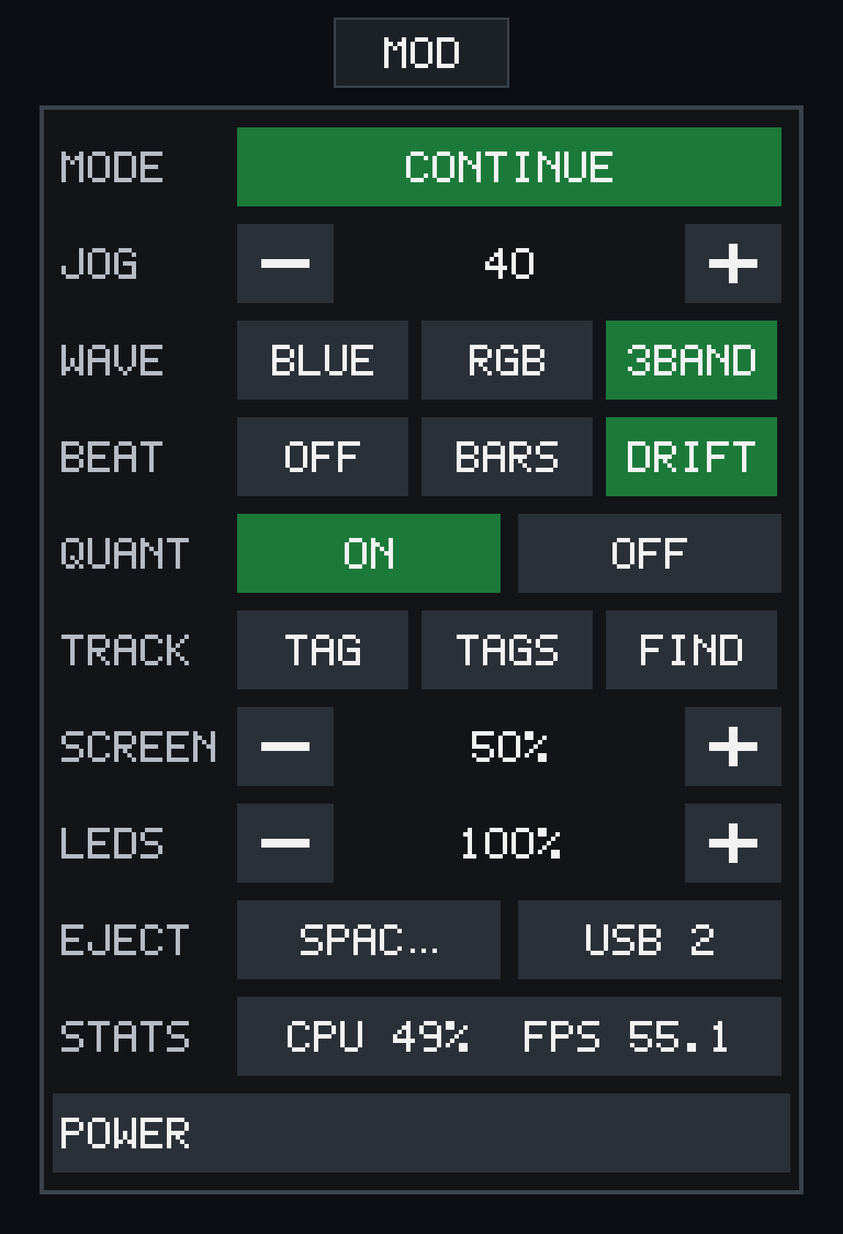
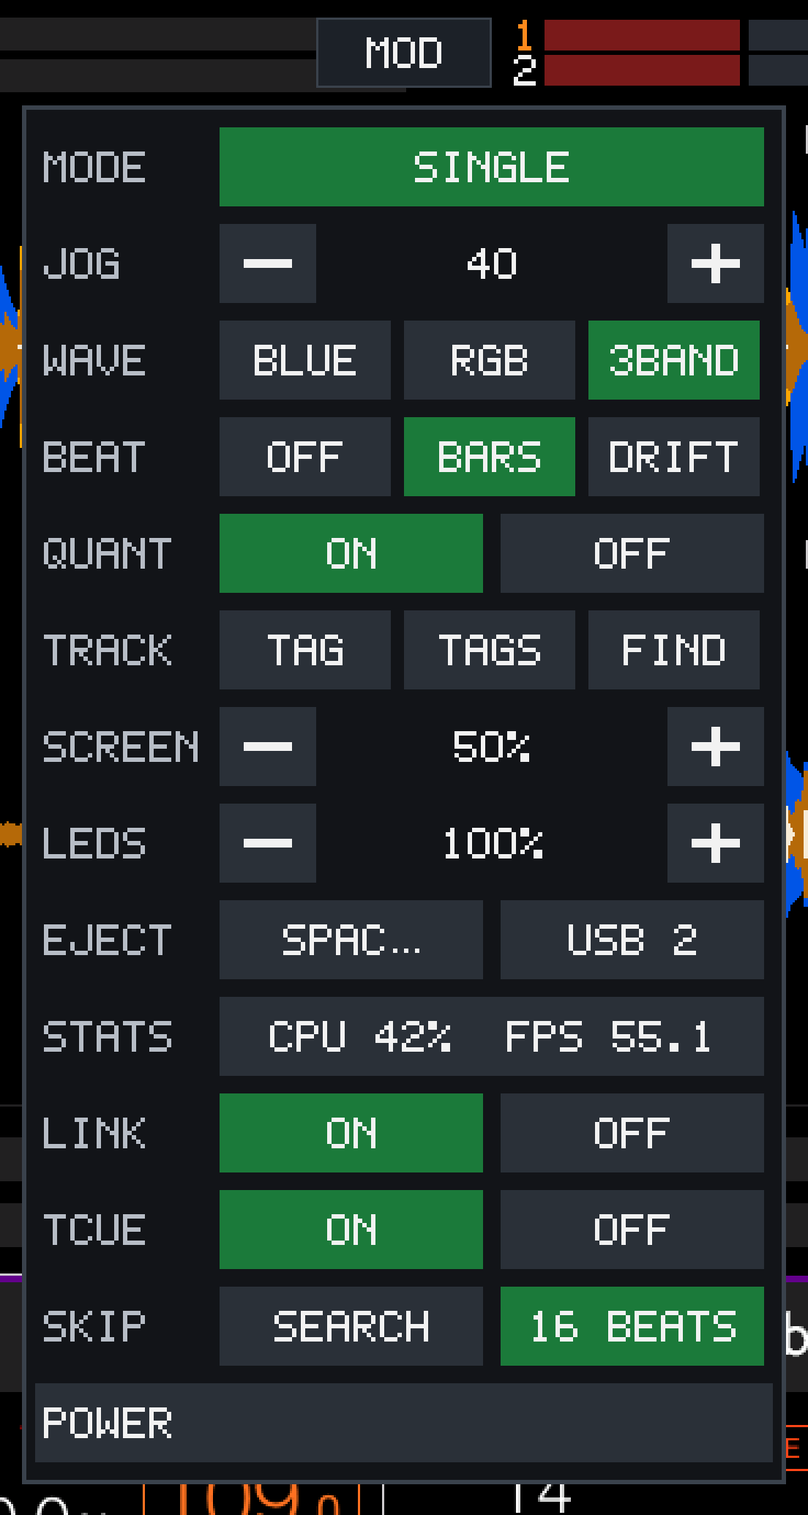
Add SHIFT + hot cue delete, SHIFT + jog search, MOD SKIP, and refresh the docs
- SHIFT + a hot cue pad deletes the cue: rbp's SHIFT key (0x4103) is sent
  around the pad press only, so rbp's own handler does the delete.
- SHIFT + jog drives DjEngineIF::startScan from the wheel speed (rbp's own
  five levels, MOD JOG scaled, with a fixed attenuation); it stops when the
  wheel idles or SHIFT is released.
- New MOD row SKIP: SEARCH (default scan) or 16 BEATS, where the SEARCH < >
  buttons call rbp's playBeatJump so the cue state stays consistent.
- crashcatch.c catches more fatal signals; still not loaded by the launcher,
  steps documented in docs/12.
- Docs: SHIFT section and gesture rows, MOD table, README, changelog,
  hexdump word counts, and a fresh docs/mod-menu.png.

diff --git a/scripts/shims/overlay_playmode.c b/scripts/shims/overlay_playmode.c
@@ -10,7 +10,8 @@
  * percent +, applied by knobshim), EJECT, STATS (read-only: CPU load percent
  * and display frames per second, counted at each FBIOPAN), LINK (ON, OFF:
  * LINK CUE, which lets Track Preview play into the headphones), TCUE (ON, OFF:
- * Touch Cue on the deck overview waveforms while a deck plays), and POWER.
+ * Touch Cue on the deck overview waveforms while a deck plays), SKIP (SEARCH, 16 BEATS:
+ * what the SEARCH < > buttons do, applied by knobshim), and POWER.
  * POWER always stays the last row.
  * The MODE button cycles those four play modes. EJECT asks usb-watch to
  * release the stick; the button then reads PULL until the stick is removed.
@@ -101,10 +102,10 @@
 #define TAB_X ((1280 - TAB_W) / 2)
 #define TAB_Y 8
 
-/* Name on the left, value on the right. Thirteen rows under the MOD tab:
+/* Name on the left, value on the right. Fourteen rows under the MOD tab:
  * PAN_H = 2 * PAD + rows * ROW_H + (rows - 1) * ROW_GAP. */
 #define PAN_W 348
-#define PAN_H 584
+#define PAN_H 628
 #define PAN_X ((1280 - PAN_W) / 2)
 #define PAN_Y 48
 
@@ -145,8 +146,9 @@
 #define STATS_Y ROW_Y(9)
 #define LINK_Y ROW_Y(10)
 #define TCUE_Y ROW_Y(11)
+#define SKIP_Y ROW_Y(12)
 /* POWER is always the last row; add new rows above it. */
-#define PWR_Y  ROW_Y(12)
+#define PWR_Y  ROW_Y(13)
 
 #define COL_TAB    0xff1c2128u
 #define COL_PANEL  0xff121418u
@@ -177,6 +179,7 @@ static int          ov_link_seen;
 static int          ov_link = 1;      /* 1 ON, 0 OFF, for drawing */
 static unsigned long long ov_link_ms;
 static int          ov_tcue = 1;      /* 1 ON, 0 OFF, for drawing */
+static int          ov_skip;          /* 1 = 16 BEATS, 0 = SEARCH, for drawing */
 static volatile int ov_track_seq;
 static volatile int ov_track_act;     /* 1 TAG, 2 TAGS, 3 FIND */
 static int          ov_track_seen;
@@ -955,6 +958,14 @@ static void request_link(int on)
         ov_shm->link_cue = on ? LINK_ON : LINK_OFF;
     __sync_synchronize();
     ov_link_seq++;
+}
+
+static void request_skip(int beats)
+{
+    ov_skip = beats ? 1 : 0;
+    if (ov_shm)
+        ov_shm->skip_mode = beats ? SKIP_BEATS : SKIP_SEARCH;
+    __sync_synchronize();
 }
 
 static void request_tcue(int on)
@@ -1756,6 +1767,7 @@ void overlay_paint(int fb_fd, unsigned yoffset)
     tcue_led_apply();
     apply_link();
     ov_tcue = !(ov_shm && ov_shm->tcue_mode == TCUE_OFF);
+    ov_skip = ov_shm && ov_shm->skip_mode == SKIP_BEATS;
     apply_track();
     open = ov_is_open();
     if (open) {
@@ -1817,6 +1829,7 @@ void overlay_paint(int fb_fd, unsigned yoffset)
     hash = hash_bytes(hash, ov_quant, sizeof(ov_quant));
     hash = hash_bytes(hash, &ov_link, sizeof(ov_link));
     hash = hash_bytes(hash, &ov_tcue, sizeof(ov_tcue));
+    hash = hash_bytes(hash, &ov_skip, sizeof(ov_skip));
     hash = hash_bytes(hash, &eject_arm, sizeof(eject_arm));
     hash = hash_bytes(hash, &pull1, sizeof(pull1));
     hash = hash_bytes(hash, &pull2, sizeof(pull2));
@@ -1908,6 +1921,12 @@ void overlay_paint(int fb_fd, unsigned yoffset)
     fill_visual(base, QUANT_OFF_X, TCUE_Y, QUANT_HALF, ROW_H, !ov_tcue ? COL_ON : COL_BTN);
     draw_text_centered(base, QUANT_OFF_X, TCUE_Y, QUANT_HALF, ROW_H, "OFF", COL_TEXT);
 
+    draw_label(base, SKIP_Y, "SKIP");
+    fill_visual(base, QUANT_ON_X, SKIP_Y, QUANT_HALF, ROW_H, !ov_skip ? COL_ON : COL_BTN);
+    draw_text_centered(base, QUANT_ON_X, SKIP_Y, QUANT_HALF, ROW_H, "SEARCH", COL_TEXT);
+    fill_visual(base, QUANT_OFF_X, SKIP_Y, QUANT_HALF, ROW_H, ov_skip ? COL_ON : COL_BTN);
+    draw_text_centered(base, QUANT_OFF_X, SKIP_Y, QUANT_HALF, ROW_H, "16 BEATS", COL_TEXT);
+
     {
         int pw = PAN_W - 12;
         int th = 7 * SCALE;
@@ -1978,7 +1997,7 @@ int overlay_touch(int down, int was_down, int lx, int ly)
     int vy = ly;
     int on_tab, on_panel, on_mode, on_jog_dn, on_jog_up;
     int on_usb1, on_usb2, on_blue, on_rgb, on_band, on_quant_on, on_quant_off, on_power;
-    int on_tag, on_tags, on_find, on_link_on, on_link_off, on_tcue_on, on_tcue_off;
+    int on_tag, on_tags, on_find, on_link_on, on_link_off, on_tcue_on, on_tcue_off, on_skip_srch, on_skip_beats;
     int on_beat_off, on_beat_bars, on_beat_drift;
     int on_scr_dn, on_scr_up, on_led_dn, on_led_up;
     int fresh;
@@ -2014,6 +2033,8 @@ int overlay_touch(int down, int was_down, int lx, int ly)
         on_link_off = in_rect(vx, vy, QUANT_OFF_X, LINK_Y, QUANT_HALF, ROW_H);
         on_tcue_on = in_rect(vx, vy, QUANT_ON_X, TCUE_Y, QUANT_HALF, ROW_H);
         on_tcue_off = in_rect(vx, vy, QUANT_OFF_X, TCUE_Y, QUANT_HALF, ROW_H);
+        on_skip_srch = in_rect(vx, vy, QUANT_ON_X, SKIP_Y, QUANT_HALF, ROW_H);
+        on_skip_beats = in_rect(vx, vy, QUANT_OFF_X, SKIP_Y, QUANT_HALF, ROW_H);
         on_tag = in_rect(vx, vy, WAVE_X, TRACK_Y, WAVE_BTN, ROW_H);
         on_tags = in_rect(vx, vy, WAVE_X + (WAVE_BTN + WAVE_GAP), TRACK_Y, WAVE_BTN, ROW_H);
         on_find = in_rect(vx, vy, WAVE_X + 2 * (WAVE_BTN + WAVE_GAP), TRACK_Y, WAVE_BTN, ROW_H);
@@ -2086,6 +2107,10 @@ int overlay_touch(int down, int was_down, int lx, int ly)
                 request_tcue(1);
             else if (on_tcue_off)
                 request_tcue(0);
+            else if (on_skip_srch)
+                request_skip(0);
+            else if (on_skip_beats)
+                request_skip(1);
             else if (on_tag)
                 request_track(1);
             else if (on_tags) {

diff --git a/scripts/shims/knobshim2.c b/scripts/shims/knobshim2.c
@@ -179,6 +179,7 @@ static int is_rbp_process(void)
 #define K_SRFWD      0x411f    /* XDJ SEARCH > (beat jump next) */
 #define K_SRREV      0x4120    /* XDJ SEARCH < (beat jump prev) */
 #define K_PAD1       0x4117
+#define K_SHIFT      0x4103    /* rbp's SHIFT key (Player/PlayerInnards::onKey_Shift) */
 #define K_LOOPIN     0x410c
 #define K_LOOPOUT    0x410d
 #define K_RELOOP     0x410e
@@ -427,7 +428,14 @@ struct jog_ctrl {
      float speed;        /* last computed speed (rev/s) */
      float frac;         /* leftover sub-count after the sensitivity scale */
      int sch;
+     int scan;           /* SHIFT + jog search running: (level << 1) | reverse, 0 = none */
 };
+
+/* DjEngineIF::startScan(this, deck, level 0..5, reverse): level 0 stops. rbp's onKey_Jog calls it for a
+ * jog turned while scanning; here SHIFT + jog is what starts and drives the search (the RX3's SHIFT + jog). */
+#define ADDR_START_SCAN  0x000466d4UL
+#define SCAN_SCALE       0.25f
+#define START_SCAN(deck, lvl, rev) ((int (*)(void *, int, int, int))ADDR_START_SCAN)(NULL, deck, lvl, rev)
 static struct jog_ctrl jog_state[2] = { {4,0,0,0,0,0,0,0,0,0.0f,0.0f,1},
                                         {5,0,0,0,0,0,0,0,0,0.0f,0.0f,2} };
 
@@ -727,7 +735,17 @@ extern int rb_tcue_pad(int ch, int note, int on) __attribute__((weak));   /* ove
 
 static void handle_note(int ch, int note, int on)
 {
-     if (rb_tcue_pad && rb_tcue_pad(ch, note, on))
+     /* MOD SKIP = 16 BEATS: the SEARCH < > buttons (notes 6 and 7) jump 16 beats instead of scanning. */
+     if ((ch == 4 || ch == 5) && (note == 6 || note == 7)) {
+          if (!jog_ov)
+               jog_ov_load();
+          if (jog_ov && jog_ov->skip_mode == SKIP_BEATS) {
+               if (on)   /* DjEngineIF::playBeatJump(ch, type): 11 = back 16 beats, 12 = forward 16 */
+                    ((void (*)(void *, int, int))0x00049ae0)(NULL, ch - 4, note == 7 ? 12 : 11);
+               return;
+          }
+     }
+     if (rb_tcue_pad && (!shift_down || !on) && rb_tcue_pad(ch, note, on))
           return;   /* a pad pressed during Touch Cue sets a hot cue there */
      /* SC Live 4 mixer PFL buttons (strips 1/2 = ch 0/1, note 13): toggle
       * rbp's headphone cue directly (rbp has no PFL keycode).  Latching. */
@@ -923,7 +941,12 @@ static void handle_note(int ch, int note, int on)
                int key = note_map[i].key;
                int *p = &note_map[i].pressed;
                if (on && !*p) {
-                    *p = 1;
+                    /* SHIFT + hot cue pad deletes the cue in rbp.  The SC Live 4 SHIFT is otherwise not
+                     * forwarded, so tell rbp it is held only around the pad press (2 = wrapped). */
+                    int shifted = shift_down && key >= K_PAD1 && key <= K_PAD1 + 7;
+                    *p = shifted ? 2 : 1;
+                    if (shifted)
+                         send_rx_key(K_SHIFT, OP_PRESS, note_map[i].sch, 0);
                     if (ch == 4 || ch == 5) {
                          if (key == K_LOOPIN)
                               led_loop_armed[ch - 4] = 1;
@@ -938,8 +961,11 @@ static void handle_note(int ch, int note, int on)
                          klog("knobshim2: ch%d note%d -> 0x%04x press (sch%d)\n",
                               ch, note, key, note_map[i].sch);
                } else if (!on && *p) {
+                    int shifted = *p == 2;
                     *p = 0;
                     send_rx_key(key, OP_RELEASE, note_map[i].sch, 0);
+                    if (shifted)
+                         send_rx_key(K_SHIFT, OP_RELEASE, note_map[i].sch, 0);
                     if (verbose || key == K_FILTER || key == K_SWEEP ||
                         key == K_BFX || key == K_BEATPREV || key == K_BEATNEXT ||
                         key == K_TRFWD || key == K_TRREV ||
@@ -1063,6 +1089,22 @@ static void handle_jog(int ch, int cc, int val)
      if (speed < -8.0f) speed = -8.0f;
      s->moving = 1;
      s->speed = speed;
+     if (shift_down) {
+          /* rbp's own speed steps for a jog scan, fed the MOD-scaled speed (so MOD JOG still sets the feel)
+           * times SCAN_SCALE: those steps are for a real RX3 wheel, and this wheel's speed estimate runs high. */
+          float a = (speed < 0.0f ? -speed : speed) * SCAN_SCALE;
+          int lvl = a < 0.15f ? 0 : a < 0.5f ? 1 : a < 1.0f ? 2 : a < 1.8f ? 3 : a < 2.3f ? 4 : 5;
+          int want = lvl ? (lvl << 1) | (speed < 0.0f) : 0;
+          if (want != s->scan) {
+               START_SCAN(idx, lvl, speed < 0.0f);
+               s->scan = want;
+          }
+          return;
+     }
+     if (s->scan) {
+          START_SCAN(idx, 0, 0);
+          s->scan = 0;
+     }
      send_rx_key_fl(K_JOG_ROT, OP_ROTATE, s->sch, 0, speed, (long)s->vpos);
      if (jog_verbose)
           klog("knobshim2: jog ch%d delta=%d speed=%.2f pos=%u (sch%d)\n",
@@ -1086,6 +1128,10 @@ static void *jog_idle_thread(void *arg)
                     continue;
                s->moving = 0;
                s->speed = 0.0f;
+               if (s->scan) {
+                    START_SCAN(i, 0, 0);
+                    s->scan = 0;
+               }
                send_rx_key_fl(K_JOG_ROT, OP_ROTATE, s->sch, 0, 0.0f, (long)s->vpos);
                if (jog_verbose)
                     klog("knobshim2: jog ch%d idle -> speed 0\n", s->rch);

diff --git a/scripts/shims/crashcatch.c b/scripts/shims/crashcatch.c
@@ -1,3 +1,9 @@
+/* crashcatch.so: optional debug tool, NOT loaded by the launcher.  On a fatal signal it appends one line to
+ * /tmp/crash.log (signal number, pc, fault address, lr, r0..r12) and exits.  rbp otherwise dies silently:
+ * start-rb.sh only logs "stopped", and a SIGSEGV leaves nothing in /data/rbp-p.log.
+ * To use it: build it (make crashcatch.so), copy it to /data/rbx3-run/usr/lib/, and put
+ * /usr/lib/crashcatch.so first in the LD_PRELOAD of the rbp line in /data/start-rb.sh.  Restore the
+ * launcher afterwards.  Map the pc to a function with llvm-objdump on deploy/rbp-audio (not PIE). */
 #define _GNU_SOURCE
 #include <signal.h>
 #include <unistd.h>
@@ -11,7 +17,7 @@ static void h(int sig, siginfo_t *si, void *uc) {
     unsigned int pc = (unsigned int)u->uc_mcontext.arm_pc;
     unsigned int ad = (unsigned int)si->si_addr;
     unsigned int lr = (unsigned int)u->uc_mcontext.arm_lr;
-    b[i++]='C';b[i++]='R';b[i++]='A';b[i++]='S';b[i++]='H';b[i++]=' ';
+    b[i++]='C';b[i++]='R';b[i++]='A';b[i++]='S';b[i++]='H';b[i++]='0'+sig/10;b[i++]='0'+sig%10;b[i++]=' ';
     b[i++]='p';b[i++]='c';b[i++]='=';b[i++]='0';b[i++]='x';
     for (int s=28;s>=0;s-=4) b[i++]=hex[(pc>>s)&15];
     b[i++]=' ';b[i++]='a';b[i++]='d';b[i++]='d';b[i++]='r';b[i++]='=';b[i++]='0';b[i++]='x';
@@ -39,4 +45,8 @@ __attribute__((constructor)) static void init(void) {
     sa.sa_flags = SA_SIGINFO;
     sigemptyset(&sa.sa_mask);
     sigaction(SIGSEGV, &sa, 0);
+    sigaction(SIGBUS, &sa, 0);
+    sigaction(SIGILL, &sa, 0);
+    sigaction(SIGFPE, &sa, 0);
+    sigaction(SIGABRT, &sa, 0);
 }

diff --git a/scripts/shims/overlay_playmode.h b/scripts/shims/overlay_playmode.h
@@ -26,15 +26,19 @@ struct rb_overlay_shm {
      * 0 = not set yet = ON, 1 = ON, 2 = OFF. */
     volatile int link_cue;
     /* Touch Cue on the deck overview waveforms, applied by knobshim2.
-     * 0 = not set yet = ON, 1 = ON, 2 = OFF. Last field: rot16 and knobshim
-     * map the older, shorter struct. */
+     * 0 = not set yet = ON, 1 = ON, 2 = OFF. */
     volatile int tcue_mode;
+    /* What the deck SEARCH < > buttons do: 0 = not set yet = SEARCH (scan), 1 = SEARCH, 2 = jump 16 beats.
+     * Last field: rot16 and knobshim map the older, shorter struct. */
+    volatile int skip_mode;
 };
 
 #define LINK_ON  1
 #define LINK_OFF 2
 #define TCUE_ON  1
 #define TCUE_OFF 2
+#define SKIP_SEARCH 1
+#define SKIP_BEATS   2
 
 #define BEAT_OFF   1
 #define BEAT_BARS  2

diff --git a/docs/08-controls.md b/docs/08-controls.md
@@ -49,6 +49,7 @@ A **MOD** tab at the top center of the screen opens this panel. Taps on the tab 
 | **STATS** | Read-only, for example `CPU 38%  FPS 60.4`. **CPU** is the busy share of all 4 cores over the last second (`/proc/stat`). **FPS** is displayed frames per second, counted at each `FBIOPAN_DISPLAY` ([06](06-display.md#frame-rate)). Updates while the panel is open. | No RX3 equivalent. |
 | **LINK** | **ON** (default) or **OFF**. This is the RX3's LINK CUE button for Track Preview: while ON, touching a track's mini waveform in the browse list plays it from that point into the headphones. The overlay re-applies it about once a second because rbp resets it at startup. Kept in `/tmp/rb-overlay`. | LINK CUE (`0x4408`), `MixerEngine::setPreviewChHeadphoneCue` |
 | **TCUE** | **ON** (default) or **OFF**. Touch Cue on the deck overview waveforms, see [Touch Cue](#touch-cue). **OFF** removes the touch area completely: the touch handler returns on its first check and the overview is back to rbp's Needle Search. Kept in `/tmp/rb-overlay`. | No RX3 equivalent. CDJ-3000X Touch Cue. |
+| **SKIP** | What the deck **SEARCH < >** buttons do. **SEARCH** (default): rbp's scan, hold to search. **16 BEATS**: each press jumps the deck 16 beats back or forward, on the beat, like the RX3's 16-beat jump pad. Lasts until reboot. | SEARCH REV / FWD (`0x4120` / `0x411f`), or `DjEngineIF::playBeatJump` types 11 and 12 |
 | **POWER** | Always the last row. The first tap shows **YES**. The **YES** tap ejects both sticks, then powers the unit off. Closing the panel before **YES** cancels it. | No RX3 key. The launcher handles the shutdown. |
 
 ### Track Preview
@@ -288,9 +289,21 @@ The pad-mode size tables below are still what rbp uses for its LOOP pads:
 
 * Parameter (23/24), Layer (31), StopTime (CC 37), Thru (note 15) — no
   direct rbp keycode, or needs a distinct param.
-* SHIFT (note 28 per deck) is tracked for the BEAT `<` / `>` combo while
-  TIME is held; other shift-actions are not wired.
+* SHIFT (note 28 per deck) does four things, see [SHIFT](#shift). Every other
+  RX3 SHIFT combination is not wired.
 * Pad-mode LEDs (11–13) and pad colours.
+
+### SHIFT
+
+The SC Live 4's SHIFT (note 28 on each deck) is not forwarded to rbp as a held key. The shim tracks it (`shift_down`) and uses it for:
+
+| With SHIFT | Does | How |
+|---|---|---|
+| a hot cue pad | deletes that hot cue | rbp's SHIFT key `0x4103` is sent around the pad press only, so rbp's own pad handler does the delete (engine, database, LED) |
+| the jog wheel | search | the shim drives `DjEngineIF::startScan`, see [Key gestures](#key-gestures-added-by-the-port) |
+| the Beat FX TIME encoder | BEAT `<` / `>` in any encoder mode | see [TIME encoder modes](#time-encoder-modes-bpm--ms--beat). In the default BEAT mode a plain turn already does it, so SHIFT shows only in the TIME and BPM modes. |
+
+Forwarding SHIFT to rbp all the time would turn on every shift function rbp has, which is untested here. The RX3's other SHIFT combinations (for example SHIFT + LOOP IN, which restarts a running loop) are not wired.
 
 ## LED output (SC Live 4 panel)
 
@@ -462,7 +475,10 @@ Controls the SC Live 4 has that the RX3 does not (or vice versa):
 |---|---|---|
 | **Hold SYNC** (≥ 600 ms) | `0x4111` K_MASTER | SC Live 4 has no MASTER button. Fires at the threshold, not on release. Tap = normal SYNC. |
 | **CENSOR** | `0x410e` K_RELOOP | reverse/censor is unused here; it makes a useful loop exit |
+| **SHIFT + hot cue pad** (note 28 held, pad notes 15 to 22) | `0x4103` K_SHIFT press, the pad key, release, release | Deletes that hot cue, as on the RX3. rbp's own pad handler does it (engine, database, LED). SHIFT is not otherwise forwarded to rbp: it is sent only around a pad press. |
 | **TIME push + turn** | `0x4490` / `0x4491` | RX3's BEAT `<` / `>` buttons, absent on the SC Live 4 |
+| **SHIFT + jog wheel** (note 28 held) | `DjEngineIF::startScan(deck, level, reverse)` | Search, as on the RX3. rbp scans only once scanning has started, and the SC Live 4 never starts it, so the shim drives it: the wheel speed (MOD JOG percent included, times `SCAN_SCALE` 0.25 because this wheel's speed estimate runs high) picks rbp's own levels 1 to 5 at 0.15 / 0.5 / 1.0 / 1.8 / 2.3. Scanning stops when the wheel idles or SHIFT is released. |
+| **SEARCH < >** (notes 6 / 7) with MOD **SKIP** = 16 BEATS | `DjEngineIF::playBeatJump(deck, 11 or 12)` | Back / forward 16 beats through rbp's own beat jump, which keeps its cue state consistent (a bare seek left CUE returning to the old cue). The press is not passed on as a search key. |
 
 The SYNC hold sends nothing until the threshold is reached; sending the press
 early and suppressing the release would leave rbp with a stuck SYNC press and

diff --git a/CHANGELOG.md b/CHANGELOG.md
@@ -4,10 +4,14 @@ Differences from [erhan-/rblive4](https://github.com/erhan-/rblive4), forked at 
 
 ## 2026-10-08
 
-### Track Preview, Touch Cue and two touch fixes
+### Track Preview, Touch Cue, SHIFT and SEARCH, and two touch fixes
 
 * **Track Preview works.** Touching a browse row's mini waveform plays it in the headphones. rbp has it, but four things stopped it here: its audio stays muted until the RX3's LINK CUE button turns it on (new MOD row **LINK**, default ON), the startup patch at `0x3664b4` made the player refuse every load, a noise filter in its touch reader kept slow drags from reaching the middle of the waveform, and it draws no playhead (now a lime line that follows the real position). Details in [docs/08 — Track Preview](docs/08-controls.md#track-preview).
 * **Touch Cue.** Touch and hold a playing deck's overview waveform to hear that point in the headphones while the deck keeps playing. Move to move the point, lift to stop. While held, a pad sets the matching hot cue there, and its LED lights as for any hot cue. New MOD row **TCUE** (default ON); OFF removes the touch area completely. A paused deck still uses Needle Search. See [docs/08 — Touch Cue](docs/08-controls.md#touch-cue). The audio is rough for now (TODO, noted there).
+* **Delete a hot cue with SHIFT + its pad.** The SC Live 4 SHIFT was not forwarded to rbp. It is now sent as rbp's SHIFT key (`0x4103`) around a pad press only, so rbp's own handler deletes the cue (engine, database and LED); every other SHIFT behaviour stays as it was.
+* **SHIFT + jog wheel searches.** rbp scans only once scanning has started, and nothing on the SC Live 4 starts it, so while SHIFT is held the shim drives `DjEngineIF::startScan` from the wheel speed using rbp's own five speed levels. The MOD JOG sensitivity still applies, with a fixed attenuation because this wheel's speed estimate runs high. Scanning stops when the wheel idles or SHIFT is released.
+* **SEARCH < > can jump 16 beats.** New MOD row **SKIP**: **SEARCH** (default, rbp's scan) or **16 BEATS**, which calls rbp's own beat jump (`playBeatJump`) so the cue state stays consistent. SHIFT + the Beat FX TIME encoder (BEAT `<` / `>`) was already wired and is documented now. All SHIFT behaviour is summarised in [docs/08 — SHIFT](docs/08-controls.md#shift).
+* **Crash diagnostics.** `crashcatch.c` now catches SIGBUS, SIGILL, SIGFPE and SIGABRT as well as SIGSEGV and logs the signal number. It is still not loaded by the launcher; the steps are in [docs/12](docs/12-troubleshooting.md#diagnostic-tools).
 * **Scrubbing no longer skips the middle.** rbp's `TouchAdValueHysteresis` filter has bands of 50 and 100 ADC counts, but this port feeds it pixels. A slow drag crept one pixel per five samples and then jumped about 100 px. The bands are now divided by 4. It affects every drag in the player.
 * **Touch screen found by name.** It was read from `/dev/input/event0`. On some boots Linux gives `event0` to `gpio-keys` and the ILI2117 becomes `event1`, which left touch dead while the knobs worked. `fbshim-tsc` now finds the device by its name.
 

diff --git a/README.md b/README.md
@@ -39,6 +39,7 @@ unchanged.
 | Display | 800×1280 portrait framebuffer, rotated, rekordbox UI full-screen | [docs/06](docs/06-display.md) |
 | Touchscreen | ILI2117 capacitive, identity calibration installed in the chroot | [docs/07](docs/07-touch.md) |
 | Controls | transport, deck, mixer, jog, pads, DJ / Sound Color FX, and the MOD menu | [docs/08](docs/08-controls.md) |
+| Search and SHIFT | SHIFT + hot cue pad deletes the cue, SHIFT + jog searches, MOD **SKIP** turns SEARCH < > into a 16-beat jump | [docs/08](docs/08-controls.md#shift) |
 | Track Preview | touch a browse row's mini waveform to audition it in the headphones, with a playhead | [docs/08](docs/08-controls.md#track-preview) |
 | Touch Cue | touch a playing deck's overview waveform to hear that point in the headphones, and set a hot cue there from a pad | [docs/08](docs/08-controls.md#touch-cue) |
 | Panel LEDs | PLAY / CUE / SYNC / KEY LOCK / VINYL / SLIP and FX LEDs mirror rbp's own LED state (blink included) | [docs/08](docs/08-controls.md) |
@@ -56,6 +57,7 @@ unchanged.
   mapped. Beat FX channel, type, TIME (beat/ms/BPM), ON, and the beat-loop
   encoder are mapped.
 * Pad RGB colours and pad-mode LEDs are not driven.
+* The RX3's other SHIFT combinations are not wired (see [SHIFT](docs/08-controls.md#shift)).
 * Touch Cue audio is rough: the preview player has no VBR seek table for the deck's file. TODO.
 * Autostart is not provided; the launcher is run manually.
 

diff --git a/scripts/shims/README.md b/scripts/shims/README.md
@@ -28,7 +28,7 @@ Build a single target during development, e.g.
 | `fbshim-tsc.c` → `fbshim.so` | fb ioctl shim (1280×800 RGB565 logical fb; frames paced by the vblank-blocking pan, with an 8 ms floor; skips rbp's own 16 ms `usleep` frame limiter at `0x1a6920`) + tsc2007 touch emulation from `/dev/input/event0`. `overlay_playmode.c` draws a MOD tab. Each row is the setting name, then the value: play mode, jog sensitivity, waveform color, deck quantize, track tag/list/search, screen and LED brightness, USB eject, read-only STATS (CPU % and FPS), and power (always last) | used as-is |
 | `knobshim2.c` → `knobshim.so` | SC Live 4 MIDI control surface → rbp keycodes, plus panel LED and VU output | **SC Live 4-specific** |
 | `audioshim.c` → `audioshim.so` | presents the RX3 ALSA devices over the JP21 `hw:1,0` codec | **SC Live 4-specific** |
-| `crashcatch.c` → `crashcatch.so` | SIGSEGV `pc`/`lr` → `/tmp/crash.log` | diagnostic |
+| `crashcatch.c` → `crashcatch.so` | fatal signal, `pc`/`lr`/registers → `/tmp/crash.log` | diagnostic, not loaded by the launcher |
 | `seqinject2.c` → `seqinject2` | static helper: inject MIDI into the shim's sequencer port | diagnostic |
 | `udplog.c` → `udplog` | static UDP listener for rbp's DebugLog → `/data/rbp-debug.log` | diagnostic |
 | `gpioshim.c`, `tscshim.c`, `fbshim16.c` | earlier standalone implementations, kept for reference | not deployed |

diff --git a/docs/12-troubleshooting.md b/docs/12-troubleshooting.md
@@ -62,11 +62,11 @@ Symptom → cause → fix.
 ## Diagnostic tools
 
 * `tools/touchdump` (static ARM) — ILI2117 ranges + live events.
-* `crashcatch.so` — SIGSEGV `pc`/`lr` → `/tmp/crash.log`.
+* `crashcatch.so` — on SIGSEGV, SIGBUS, SIGILL, SIGFPE or SIGABRT, one line with the signal, `pc`, fault address, `lr` and `r0` to `r12` in `/tmp/crash.log`. It is not loaded by the launcher. rbp otherwise dies silently: `/data/start-rb.log` only says `stopped` and a segfault leaves nothing in `/data/rbp-p.log` (a glibc abort such as `double free` does print there). To use it, copy it to `/data/rbx3-run/usr/lib/`, put `/usr/lib/crashcatch.so` first in the `LD_PRELOAD` of the rbp line in `/data/start-rb.sh`, and restore the launcher afterwards. Map the `pc` to a function with `llvm-objdump -d` on `deploy/rbp-audio` (not PIE).
 * `KNOB_VERBOSE=1` → every MIDI event + keycode in `/tmp/knobshim.log`.
 * `cat /tmp/audioshim.log` — negotiated params + `sg`/peaks.
 * `cat /tmp/dfbdig*.log` — DirectFB bring-up (`ROTINIT` line).
 * `cat /tmp/rb-rot` — frames per 2 s, rotate avg/max µs, rbp draw µs, threads.
-* `hexdump -e '13/4 "%d " "\n"' /tmp/rb-overlay | cut -d' ' -f11` — fps ×10.
+* `hexdump -e '17/4 "%d " "\n"' /tmp/rb-overlay | cut -d' ' -f11` — fps ×10.
 * `aplay`/`amixer`/`alsactl` for audio probing. No `strace`/`gdb` on device —
   cross-build and `scp` if needed.

diff --git a/docs/06-display.md b/docs/06-display.md
@@ -140,7 +140,7 @@ Each of these cost at least one refresh per frame:
 * Over SSH, the same number ×10 is the 11th word of the overlay shm (`fps_x10`):
 
   ```sh
-  hexdump -e '16/4 "%d " "\n"' /tmp/rb-overlay | cut -d' ' -f11   # 603 -> 60.3 fps
+  hexdump -e '17/4 "%d " "\n"' /tmp/rb-overlay | cut -d' ' -f11   # 603 -> 60.3 fps
   ```
 
 * `/tmp/rb-rot` is rewritten about every 2 s by the fbdev driver:
